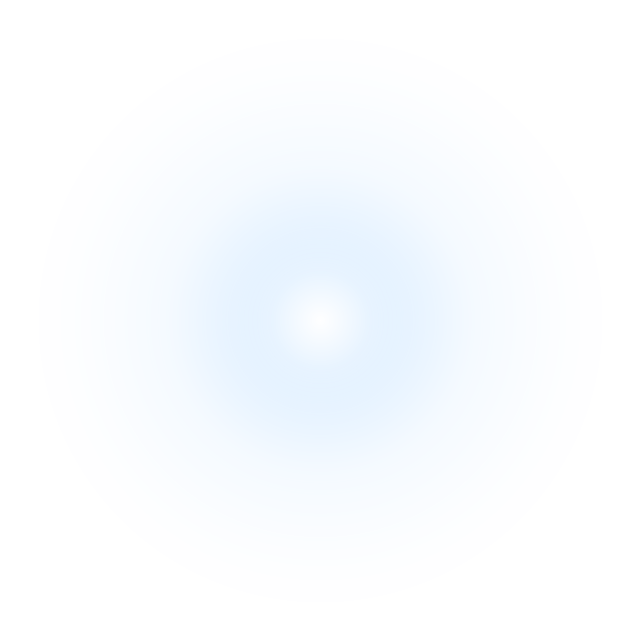
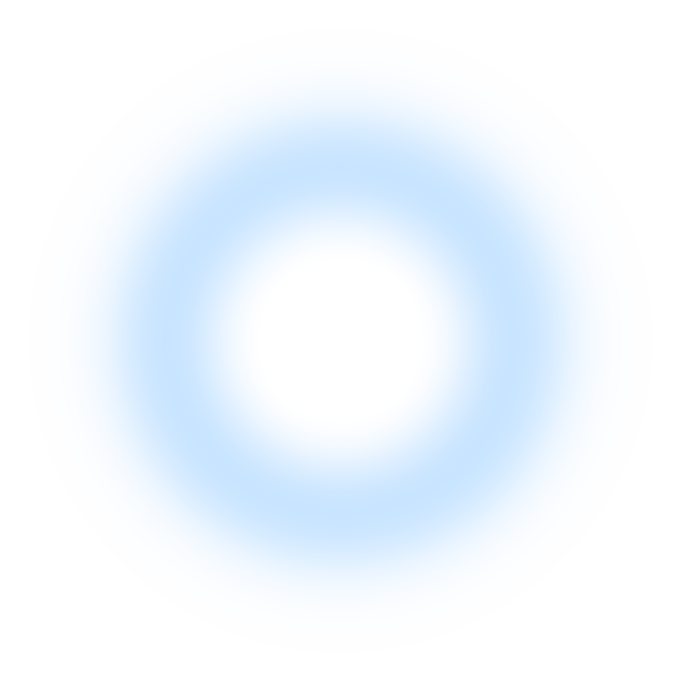
fix(home): 合格リングを中央寄せ＋グローを星屑リングの環に沿ったhaloへ(中心の合格率は光らせない)

diff --git a/src/screens/HomeScreen.tsx b/src/screens/HomeScreen.tsx
@@ -54,9 +54,11 @@ export default function HomeScreen() {
   const gInnerSc = glow.interpolate({ inputRange: [0, 1], outputRange: [0.95, 1.12] });
 
   const ringW = Math.round(width * 0.30);
-  const glowOuter = Math.round(ringW * 2.6);
-  const glowInner = Math.round(ringW * 1.5);
-  const top = Math.round(height * 0.18); // 上端に寄り過ぎないよう下げる
+  // 環状グロー: リングの帯に沿って光らせる(中心=合格率は光らせない)。素材が環状ピークなので
+  // リングとほぼ同径に置くと帯にhaloが乗る。外側にもう一枚重ねて滲みを出す。
+  const glowOuter = Math.round(ringW * 1.55);
+  const glowInner = Math.round(ringW * 1.12);
+  const top = Math.round(height * 0.30); // もっと中央へ
   const left = Math.round((width - ringW) / 2);
   const pct = Math.round(status.passPct);
 